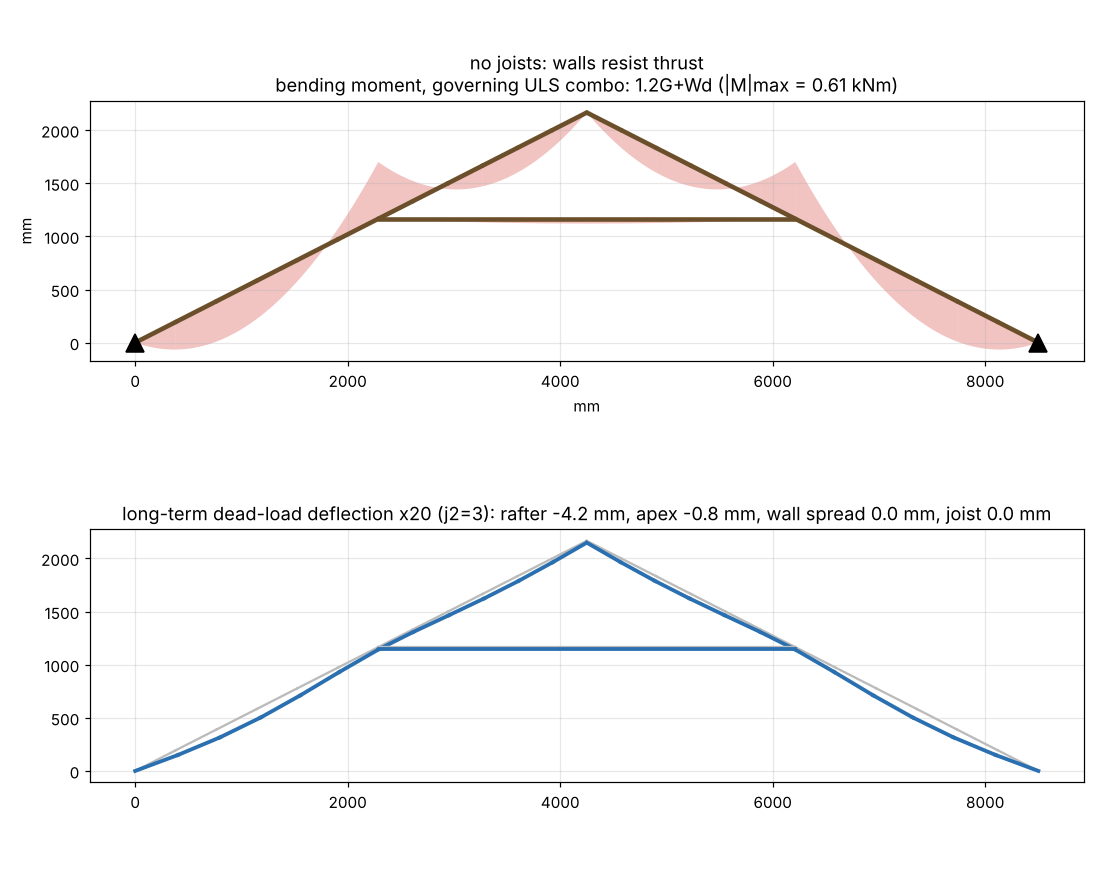
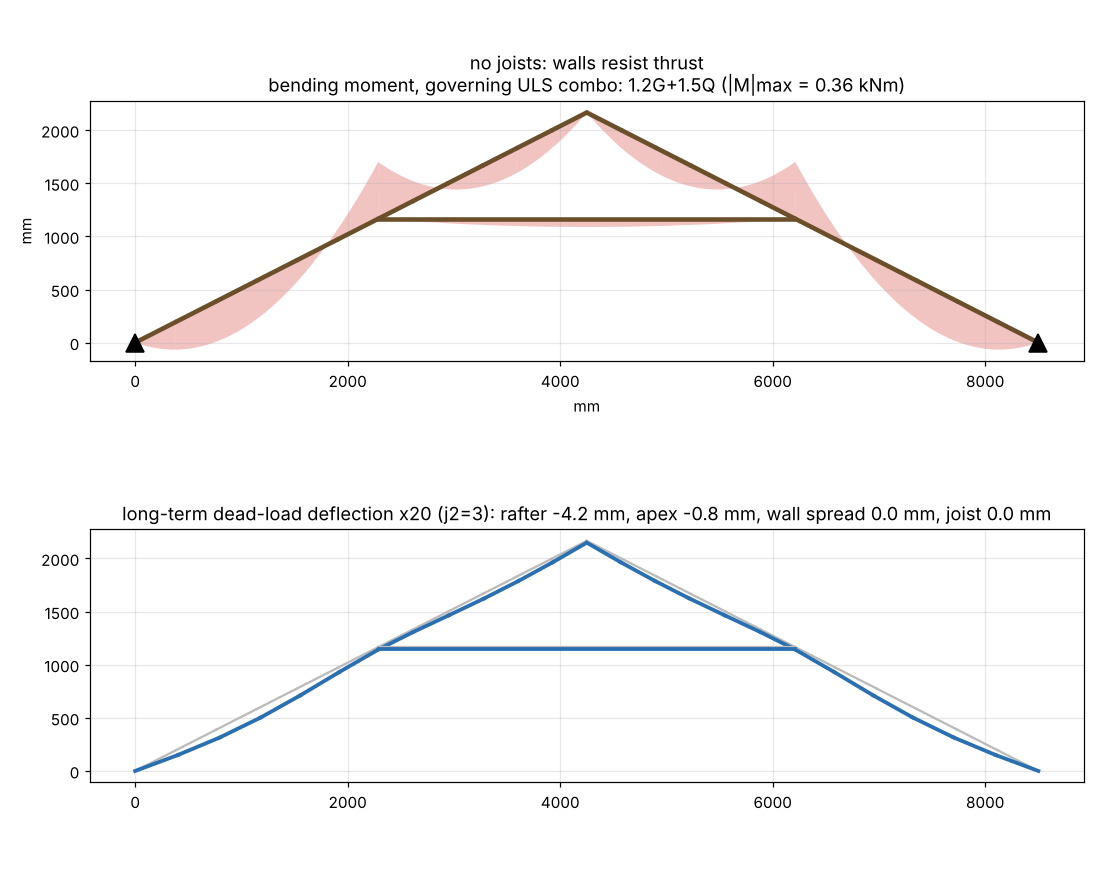
structural/roof_truss: N1 wind (suburban Adelaide) as default; report numbers updated
Claude-Session: https://claude.ai/code/session_0199U5YGymNnHk7YuwZmvPxb

Changed region(s): [[0.2473, 0.0614, 0.8345, 0.1227], [0.4327, 0.2455, 0.6491, 0.2761]]

diff --git a/structural/roof_truss/roof_truss.py b/structural/roof_truss/roof_truss.py
@@ -575,11 +575,12 @@ def parse(argv=None):
     l.add_argument("--qc-point", type=float, default=900, help="N, concentrated load on a ceiling joist (AS 1684 basis)")
     l.add_argument("--q-roof", type=float, default=0.25, help="roof live load on plan (R2, ≥14 m2)")
     l.add_argument("--q-point", type=float, default=1400, help="N, concentrated roof live load")
-    l.add_argument("--wind-up", type=float, default=-0.8, help="net ULS pressure onto roof, both slopes (N2 indicative)")
-    l.add_argument("--wind-down", type=float, default=0.6)
-    l.add_argument("--wind-asym", type=lambda s: tuple(float(v) for v in s.split(",")), default=(0.5, -0.8),
-                   help="windward,leeward net pressures")
-    l.add_argument("--ws-ratio", type=float, default=0.42, help="serviceability/ultimate wind pressure ratio")
+    l.add_argument("--wind-up", type=float, default=-0.58,
+                   help="net ULS pressure onto roof, both slopes (N1 suburban Adelaide; N2 = -0.8)")
+    l.add_argument("--wind-down", type=float, default=0.43, help="(N2 = 0.6)")
+    l.add_argument("--wind-asym", type=lambda s: tuple(float(v) for v in s.split(",")), default=(0.36, -0.58),
+                   help="windward,leeward net pressures (N2 = 0.5,-0.8)")
+    l.add_argument("--ws-ratio", type=float, default=0.58, help="serviceability/ultimate wind pressure ratio (N1)")
     o = ap.add_argument_group("output")
     o.add_argument("--all", action="store_true", help="run the support matrix + section sweep")
     o.add_argument("--plots", action="store_true")

diff --git a/structural/roof_truss/report/analysis.md b/structural/roof_truss/report/analysis.md
@@ -8,17 +8,17 @@ Governing utilisation per member (ULS, demand/capacity; >1.0 = FAIL):
 
 | group | combo | tag | util | M* kNm | Md kNm | N* kN | Ncx kN | Ncy kN | Nt kN | k12b | k12cy |
 |---|---|---|---|---|---|---|---|---|---|---|---|
-| collar | 1.2G+Wd | collar tie | 8.49 | 0.05 | 0.48 | -5.77 | 6.13 | 0.68 | 28.30 | 0.59 | 0.02 |
+| collar | 1.2G+1.5Q | collar tie | 7.97 | 0.05 | 0.39 | -3.40 | 3.84 | 0.43 | 26.60 | 0.51 | 0.01 |
 | tie | 1.2G+1.5Qc | ceiling joist | 3.79 | 1.39 | 0.37 | 1.33 | 3.38 | 26.09 | 27.45 | 0.47 | 0.80 |
-| rafter | 1.2G+Wa | rafter R lower | 3.63 | -2.20 | 0.62 | -1.01 | 14.32 | 12.95 | 28.30 | 0.76 | 0.39 |
+| rafter | 1.2G+Wa | rafter R lower | 2.68 | -1.61 | 0.62 | -1.09 | 14.32 | 12.95 | 28.30 | 0.76 | 0.39 |
 
 Support reactions per truss (kN; H = horizontal thrust the wall must resist):
 
 | support | |H| max | V max (down) | V min (uplift if <0) |
 |---|---|---|---|
 | joist prop 1 | 0.00 | 1.97 | 0.78 |
-| wall L | 3.38 | 4.22 | -3.21 |
-| wall R | 0.00 | 4.22 | -3.21 |
+| wall L | 2.44 | 3.35 | -2.09 |
+| wall R | 0.00 | 3.35 | -2.09 |
 
 Serviceability deflections (mm; rafter limit span/300 = 15.9 mm on the 4770 mm slope length, lower segment 8.6 mm, ceiling joist span 4250 mm → 14.2 mm):
 
@@ -26,9 +26,9 @@ Serviceability deflections (mm; rafter limit span/300 = 15.9 mm on the 4770 mm s
 |---|---|---|---|---|---|---|---|---|
 | G long-term | 3 | -4.56 | -3.99 | -1.80 | 0.97 | -0.36 | -6.89 | -31.31 |
 | 0.7Q short-term | 1 | -2.00 | -1.77 | -0.75 | 0.40 | -0.15 | 0.00 | 0.00 |
-| Ws uplift | 1 | 4.73 | 4.25 | 1.39 | -0.72 | 0.36 | 0.00 | 0.00 |
+| Ws uplift | 1 | 4.73 | 4.26 | 1.39 | -0.72 | 0.36 | 0.00 | 0.00 |
 
-Collar-tie lap connection: N* = 5.77 kN (compression, 1.2G+Wd). With 3.15 mm nails in J4 Oregon (Q_k ≈ 0.515 kN, φ = 0.80, k1 = 1.0, k17 = 0.8) that is ≈ 18 nails each end; or design an M12 bolt + washers.
+Collar-tie lap connection: N* = 4.44 kN (compression, 1.2G+Wd). With 3.15 mm nails in J4 Oregon (Q_k ≈ 0.515 kN, φ = 0.80, k1 = 1.0, k17 = 0.88) that is ≈ 13 nails each end; or design an M12 bolt + washers.
 
 ![as built: joists tie the feet, wall under joists mid-span, purlins as bracing](tie_p1_35x105.png)
 
@@ -47,10 +47,10 @@ Support reactions per truss (kN; H = horizontal thrust the wall must resist):
 | support | |H| max | V max (down) | V min (uplift if <0) |
 |---|---|---|---|
 | joist prop 1 | 0.00 | 1.97 | 0.78 |
-| strut L | 0.00 | 3.07 | -2.64 |
-| strut R | 0.00 | 2.99 | -2.64 |
-| wall L | 3.38 | 1.33 | -0.57 |
-| wall R | 0.00 | 1.23 | -0.57 |
+| strut L | 0.00 | 2.40 | -1.78 |
+| strut R | 0.00 | 2.33 | -1.78 |
+| wall L | 2.44 | 1.33 | -0.31 |
+| wall R | 0.00 | 1.02 | -0.31 |
 
 Serviceability deflections (mm; rafter limit span/300 = 15.9 mm on the 4770 mm slope length, lower segment 8.6 mm, ceiling joist span 4250 mm → 14.2 mm):
 
@@ -58,9 +58,9 @@ Serviceability deflections (mm; rafter limit span/300 = 15.9 mm on the 4770 mm s
 |---|---|---|---|---|---|---|---|---|
 | G long-term | 3 | -3.67 | -3.73 | -0.19 | 0.04 | 0.07 | -6.89 | -31.31 |
 | 0.7Q short-term | 1 | -1.64 | -1.66 | -0.09 | 0.02 | 0.03 | 0.00 | 0.00 |
-| Ws uplift | 1 | 4.01 | 4.03 | 0.09 | 0.03 | 0.01 | 0.00 | 0.00 |
+| Ws uplift | 1 | 4.02 | 4.04 | 0.09 | 0.03 | 0.01 | 0.00 | 0.00 |
 
-Collar-tie lap connection: N* = 0.99 kN (tension, 1.2G+Wa). With 3.15 mm nails in J4 Oregon (Q_k ≈ 0.515 kN, φ = 0.80, k1 = 1.0, k17 = 1.0) that is ≈ 3 nails each end; or design an M12 bolt + washers.
+Collar-tie lap connection: N* = 0.77 kN (tension, 1.2G+Wa). With 3.15 mm nails in J4 Oregon (Q_k ≈ 0.515 kN, φ = 0.80, k1 = 1.0, k17 = 1.0) that is ≈ 2 nails each end; or design an M12 bolt + washers.
 
 ![what-if: same + under-purlins strutted down to a wall/beam](tie_p1_strutted_35x105.png)
 
@@ -71,15 +71,15 @@ Governing utilisation per member (ULS, demand/capacity; >1.0 = FAIL):
 | group | combo | tag | util | M* kNm | Md kNm | N* kN | Ncx kN | Ncy kN | Nt kN | k12b | k12cy |
 |---|---|---|---|---|---|---|---|---|---|---|---|
 | tie | 1.2G+1.5Qc | ceiling joist | 25.10 | 4.64 | 0.19 | 1.33 | 0.85 | 26.09 | 27.45 | 0.24 | 0.80 |
-| collar | 1.2G+Wd | collar tie | 8.49 | 0.05 | 0.48 | -5.77 | 6.13 | 0.68 | 28.30 | 0.59 | 0.02 |
-| rafter | 1.2G+Wa | rafter R lower | 3.63 | -2.20 | 0.62 | -1.01 | 14.32 | 12.95 | 28.30 | 0.76 | 0.39 |
+| collar | 1.2G+1.5Q | collar tie | 7.97 | 0.05 | 0.39 | -3.40 | 3.84 | 0.43 | 26.60 | 0.51 | 0.01 |
+| rafter | 1.2G+Wa | rafter R lower | 2.68 | -1.61 | 0.62 | -1.09 | 14.32 | 12.95 | 28.30 | 0.76 | 0.39 |
 
 Support reactions per truss (kN; H = horizontal thrust the wall must resist):
 
 | support | |H| max | V max (down) | V min (uplift if <0) |
 |---|---|---|---|
-| wall L | 3.38 | 4.74 | -2.82 |
-| wall R | 0.00 | 4.74 | -2.82 |
+| wall L | 2.44 | 3.88 | -1.70 |
+| wall R | 0.00 | 3.88 | -1.70 |
 
 Serviceability deflections (mm; rafter limit span/300 = 15.9 mm on the 4770 mm slope length, lower segment 8.6 mm, ceiling joist span 8500 mm → 28.3 mm):
 
@@ -87,9 +87,9 @@ Serviceability deflections (mm; rafter limit span/300 = 15.9 mm on the 4770 mm s
 |---|---|---|---|---|---|---|---|---|
 | G long-term | 3 | -4.56 | -3.99 | -1.80 | 0.97 | -0.36 | -6.89 | -1252.40 |
 | 0.7Q short-term | 1 | -2.00 | -1.77 | -0.75 | 0.40 | -0.15 | 0.00 | 0.00 |
-| Ws uplift | 1 | 4.73 | 4.25 | 1.39 | -0.72 | 0.36 | 0.00 | 0.00 |
+| Ws uplift | 1 | 4.73 | 4.26 | 1.39 | -0.72 | 0.36 | 0.00 | 0.00 |
 
-Collar-tie lap connection: N* = 5.77 kN (compression, 1.2G+Wd). With 3.15 mm nails in J4 Oregon (Q_k ≈ 0.515 kN, φ = 0.80, k1 = 1.0, k17 = 0.8) that is ≈ 18 nails each end; or design an M12 bolt + washers.
+Collar-tie lap connection: N* = 4.44 kN (compression, 1.2G+Wd). With 3.15 mm nails in J4 Oregon (Q_k ≈ 0.515 kN, φ = 0.80, k1 = 1.0, k17 = 0.88) that is ≈ 13 nails each end; or design an M12 bolt + washers.
 
 ![what-if: no wall under the joists](tie_p0_35x105.png)
 
@@ -99,15 +99,15 @@ Governing utilisation per member (ULS, demand/capacity; >1.0 = FAIL):
 
 | group | combo | tag | util | M* kNm | Md kNm | N* kN | Ncx kN | Ncy kN | Nt kN | k12b | k12cy |
 |---|---|---|---|---|---|---|---|---|---|---|---|
-| collar | 1.2G+Wd | collar tie | 8.52 | 0.05 | 0.48 | -5.79 | 6.13 | 0.68 | 28.30 | 0.59 | 0.02 |
-| rafter | 1.2G+Wa | rafter R lower | 3.64 | -2.21 | 0.62 | -1.01 | 14.32 | 12.95 | 28.30 | 0.76 | 0.39 |
+| collar | 1.2G+1.5Q | collar tie | 8.01 | 0.05 | 0.39 | -3.41 | 3.84 | 0.43 | 26.60 | 0.51 | 0.01 |
+| rafter | 1.2G+Wa | rafter R lower | 2.69 | -1.61 | 0.62 | -1.09 | 14.32 | 12.95 | 28.30 | 0.76 | 0.39 |
 
 Support reactions per truss (kN; H = horizontal thrust the wall must resist):
 
 | support | |H| max | V max (down) | V min (uplift if <0) |
 |---|---|---|---|
-| wall L | 5.73 | 3.91 | -3.44 |
-| wall R | 5.73 | 3.91 | -3.44 |
+| wall L | 4.49 | 3.04 | -2.32 |
+| wall R | 4.49 | 3.04 | -2.32 |
 
 Serviceability deflections (mm; rafter limit span/300 = 15.9 mm on the 4770 mm slope length, lower segment 8.6 mm):
 
@@ -115,9 +115,9 @@ Serviceability deflections (mm; rafter limit span/300 = 15.9 mm on the 4770 mm s
 |---|---|---|---|---|---|---|---|---|
 | G long-term | 3 | -4.20 | -3.89 | -0.85 | 0.00 | -0.36 | -6.89 | 0.00 |
 | 0.7Q short-term | 1 | -1.86 | -1.73 | -0.36 | 0.00 | -0.15 | 0.00 | 0.00 |
-| Ws uplift | 1 | 4.46 | 4.17 | 0.68 | 0.00 | 0.36 | 0.00 | 0.00 |
+| Ws uplift | 1 | 4.47 | 4.18 | 0.68 | 0.00 | 0.36 | 0.00 | 0.00 |
 
-Collar-tie lap connection: N* = 5.79 kN (compression, 1.2G+Wd). With 3.15 mm nails in J4 Oregon (Q_k ≈ 0.515 kN, φ = 0.80, k1 = 1.0, k17 = 0.8) that is ≈ 18 nails each end; or design an M12 bolt + washers.
+Collar-tie lap connection: N* = 4.46 kN (compression, 1.2G+Wd). With 3.15 mm nails in J4 Oregon (Q_k ≈ 0.515 kN, φ = 0.80, k1 = 1.0, k17 = 0.88) that is ≈ 13 nails each end; or design an M12 bolt + washers.
 
 ![no joists: walls resist thrust](pinned_p0_35x105.png)
 
@@ -127,15 +127,15 @@ Governing utilisation per member (ULS, demand/capacity; >1.0 = FAIL):
 
 | group | combo | tag | util | M* kNm | Md kNm | N* kN | Ncx kN | Ncy kN | Nt kN | k12b | k12cy |
 |---|---|---|---|---|---|---|---|---|---|---|---|
-| rafter | 0.9G+Wu | rafter R lower | 8.27 | -5.09 | 0.62 | 1.71 | 14.32 | 12.95 | 28.30 | 0.76 | 0.39 |
-| collar | 0.9G+Wu | collar tie | 7.44 | 0.03 | 0.48 | -5.06 | 6.13 | 0.68 | 28.30 | 0.59 | 0.02 |
+| rafter | 1.2G+1.5Q | rafter R upper | 6.81 | 4.64 | 0.76 | -5.80 | 12.20 | 8.12 | 26.60 | 1.00 | 0.26 |
+| collar | 0.9G+Wu | collar tie | 4.85 | 0.03 | 0.48 | -3.30 | 6.13 | 0.68 | 28.30 | 0.59 | 0.02 |
 
 Support reactions per truss (kN; H = horizontal thrust the wall must resist):
 
 | support | |H| max | V max (down) | V min (uplift if <0) |
 |---|---|---|---|
-| wall L | 3.38 | 3.91 | -3.44 |
-| wall R | 0.00 | 3.91 | -3.44 |
+| wall L | 2.44 | 3.04 | -2.32 |
+| wall R | 0.00 | 3.04 | -2.32 |
 
 Serviceability deflections (mm; rafter limit span/300 = 15.9 mm on the 4770 mm slope length, lower segment 8.6 mm):
 
@@ -143,9 +143,9 @@ Serviceability deflections (mm; rafter limit span/300 = 15.9 mm on the 4770 mm s
 |---|---|---|---|---|---|---|---|---|
 | G long-term | 3 | -274.37 | -63.71 | -532.07 | 541.35 | 0.61 | -6.89 | 0.00 |
 | 0.7Q short-term | 1 | -113.96 | -26.58 | -221.02 | 224.87 | 0.26 | 0.00 | 0.00 |
-| Ws uplift | 1 | 203.71 | 48.56 | 394.88 | -401.71 | -0.36 | 0.00 | 0.00 |
+| Ws uplift | 1 | 203.95 | 48.62 | 395.35 | -402.18 | -0.36 | 0.00 | 0.00 |
 
-Collar-tie lap connection: N* = 6.62 kN (tension, 1.2G+Wd). With 3.15 mm nails in J4 Oregon (Q_k ≈ 0.515 kN, φ = 0.80, k1 = 1.0, k17 = 0.8) that is ≈ 21 nails each end; or design an M12 bolt + washers.
+Collar-tie lap connection: N* = 5.87 kN (tension, 1.2G+1.5Q). With 3.15 mm nails in J4 Oregon (Q_k ≈ 0.515 kN, φ = 0.80, k1 = 0.94, k17 = 0.8) that is ≈ 19 nails each end; or design an M12 bolt + washers.
 
 ![no joists: one wall free to spread](roller_p0_35x105.png)
 
@@ -153,21 +153,21 @@ Collar-tie lap connection: N* = 6.62 kN (tension, 1.2G+Wd). With 3.15 mm nails i
 
 | section | rafter util | rafter combo | collar util | joist util | rafter δG mm | joist δG mm | H wall kN |
 |---|---|---|---|---|---|---|---|
-| 35x105 | 3.63 | 1.2G+Wa | 8.49 | 3.79 | 4.56 | 31.31 | 3.38 |
-| 35x140 | 2.41 | 1.2G+Wa | 6.40 | 2.86 | 2.30 | 13.74 | 3.38 |
-| 45x140 | 1.45 | 1.2G+Wa | 3.06 | 1.39 | 1.89 | 11.16 | 3.38 |
-| 35x190 | 1.67 | 1.2G+Wa | 4.74 | 2.13 | 1.22 | 5.80 | 3.38 |
-| 45x190 | 0.90 | 1.2G+Wa | 2.27 | 1.02 | 1.02 | 4.77 | 3.38 |
-| 45x240 | 0.65 | 1.2G+Wa | 1.81 | 0.82 | 0.69 | 2.52 | 3.38 | 
+| 35x105 | 2.68 | 1.2G+Wa | 7.97 | 3.79 | 4.56 | 31.31 | 2.44 |
+| 35x140 | 1.78 | 1.2G+Wa | 6.07 | 2.86 | 2.30 | 13.74 | 2.44 |
+| 45x140 | 1.07 | 1.2G+Wa | 2.92 | 1.39 | 1.89 | 11.16 | 2.44 |
+| 35x190 | 1.24 | 1.2G+Wa | 4.54 | 2.13 | 1.22 | 5.80 | 2.44 |
+| 45x190 | 0.67 | 1.2G+Wa | 2.20 | 1.02 | 1.02 | 4.77 | 2.44 |
+| 45x240 | 0.48 | 1.2G+Wa | 1.77 | 0.82 | 0.69 | 2.52 | 2.44 | 
 
 ### Section sweep — joists propped mid-span + purlins strutted
 
 | section | rafter util | rafter combo | collar util | joist util | rafter δG mm | joist δG mm | H wall kN |
 |---|---|---|---|---|---|---|---|
-| 35x105 | 1.35 | 1.2G+1.5Qp | 0.23 | 3.74 | 3.67 | 31.31 | 3.38 |
-| 35x140 | 0.79 | 1.2G+1.5Qp | 0.23 | 2.83 | 1.60 | 13.74 | 3.38 |
-| 45x140 | 0.59 | 1.2G+1.5Qp | 0.15 | 1.36 | 1.31 | 11.16 | 3.38 |
-| 35x190 | 0.56 | 1.2G+1.5Qp | 0.23 | 2.10 | 0.66 | 5.80 | 3.38 |
-| 45x190 | 0.32 | 1.2G+1.5Qp | 0.14 | 1.00 | 0.55 | 4.77 | 3.38 |
-| 45x240 | 0.22 | 1.2G+1.5Qp | 0.14 | 0.80 | 0.28 | 2.52 | 3.38 | 
+| 35x105 | 1.35 | 1.2G+1.5Qp | 0.23 | 3.74 | 3.67 | 31.31 | 2.44 |
+| 35x140 | 0.79 | 1.2G+1.5Qp | 0.23 | 2.83 | 1.60 | 13.74 | 2.44 |
+| 45x140 | 0.59 | 1.2G+1.5Qp | 0.15 | 1.36 | 1.31 | 11.16 | 2.44 |
+| 35x190 | 0.56 | 1.2G+1.5Qp | 0.23 | 2.10 | 0.66 | 5.80 | 2.44 |
+| 45x190 | 0.32 | 1.2G+1.5Qp | 0.14 | 1.00 | 0.55 | 4.77 | 2.44 |
+| 45x240 | 0.22 | 1.2G+1.5Qp | 0.14 | 0.80 | 0.28 | 2.52 | 2.44 | 
 

diff --git a/structural/roof_truss/REPORT.md b/structural/roof_truss/REPORT.md
@@ -16,9 +16,9 @@ members fail, each on its own:
 
 | Member | Governing case | Times over capacity | Why |
 |---|---|---|---|
-| **Collar tie** | dead + wind down | **8.5×** | it is pushed into *compression* (5.8 kN) as the rafters bow inward, and 3.9 m of unbraced 35 mm timber buckles sideways |
+| **Collar tie** | dead + roof live load (no wind needed) | **8.0×** | it is pushed into *compression* (3.4 kN) as the rafters bow inward, and 3.9 m of unbraced 35 mm timber buckles sideways |
 | **Ceiling joist** (4.25 m spans over the wall) | dead + 0.9 kN ceiling point load | **3.8×**, sags 31 mm (limit 14) | 1.39 kNm demand vs 0.37 kNm capacity; top edge unrestrained over 4.25 m |
-| **Rafter** | dead + asymmetric wind | **3.6×** | pressure on one slope and suction on the other bend the whole frame; the collar carries only horizontal force and can't help |
+| **Rafter** | dead + asymmetric wind (N1) | **2.7×** | pressure on one slope and suction on the other bend the whole frame; the collar carries only horizontal force and can't help. Without any wind, the 1.4 kN maintenance point load alone gives **2.2×** |
 
 The wall under the joists is essential (without it the joists are 25× over and
 sag over a metre) and the joists tying the feet are essential (without them the
@@ -32,28 +32,28 @@ Deflections pass wherever strength passes (rafter 4.6 mm long-term against a
 **Collar tie.** With the feet tied, gravity makes both rafters bow inward and the
 collar is squeezed between them. It only becomes a tension tie when the walls
 spread, which the joists prevent. Unbraced over 3.9 m in its weak direction
-k12 ≈ 0.02. Two intermediate lateral restraints (ceiling battens or a runner at
-third points) bring it to 1.00; the under-purlins restrain the collar *ends*
-only. Under asymmetric wind it sees 6.6 kN tension — the lap needs ~20 nails
-each end or bolts.
+k12 ≈ 0.01. Two intermediate lateral restraints (ceiling battens or a runner at
+third points) bring it to about 1.0; the under-purlins restrain the collar *ends*
+only. The lap carries 3.4 kN — ~12 nails each end or a bolt.
 
-**Ceiling joists.** The thrust (3.4 kN per truss) goes into the joists as
-tension, which they carry easily (12 % of capacity); the rafter-foot connection
-needs to be nailed or bolted as a 3.4 kN tension splice. The bending from the
+**Ceiling joists.** The thrust (2.4 kN per truss) goes into the joists as
+tension, which they carry easily (9 % of capacity); the rafter-foot connection
+needs to be nailed or bolted as a 2.4 kN tension splice. The bending from the
 ceiling over two 4.25 m spans is the problem: 35×105 ceiling joists at 1200 c/c
 want supports at roughly 1.5 m, or a deeper section (45×190 F7 is 1.0).
 
 **Rafters.** With the feet tied, the two rafters form a three-pin arch.
 Symmetric loads are carried by arch action and the rafter moments are small
 (~0.1 kNm dead load). Asymmetric wind can only be resisted by bending the
-rafters: 2.2 kNm against a 0.62 kNm capacity, checked by hand statics. A
-45×190 F7 rafter (0.90) survives this case; 35×140 does not (2.4×).
+rafters: 1.6 kNm against a 0.62 kNm capacity at N1 (2.2 kNm at N2, checked by
+hand statics). Even with no wind the 1.4 kN concentrated roof live load gives
+1.4 kNm on the 2.57 m lower segment. A 45×190 F7 rafter (0.67) survives;
+45×140 is marginal (1.07); 35×140 does not (1.8×).
 
 ## What would make it work
 
-**A. Keep the geometry, resize members:** rafters ≥ 45×190 F7, collar
-restrained at third points, joists 45×190 F7 (1.0) or 45×240 (0.8). A lot of
-timber.
+**A. Keep the geometry, resize members:** rafters 45×190 F7, collar restrained
+at third points, joists carried by the hanging beams. A lot of timber.
 
 **B. Strut the under-purlins down to a load-bearing wall or strutting beam**
 (what AS 1684 assumes an under-purlin does). That makes the rafters continuous
@@ -62,25 +62,25 @@ and drops the collar to 1 kN (0.23, 3 nails each end). Then:
 - rafters at 1200 c/c need **35×140 F7** (0.79, governed by the 1.4 kN
   concentrated roof live load on the 2.57 m lower segment); 35×105 is 1.35.
   Or keep 35×105 with a second purlin line so no rafter span exceeds ~1.5 m.
-- struts at every truss (3.0 kN per strut, 2.6 kN uplift — tie them down); a
+- struts at every truss (3.0 kN per strut, ~2 kN uplift — tie them down); a
   35×105 purlin can't carry a strut reaction across 2.4 m.
 - joists still need a deeper section or closer supports as above.
 
-Either way the thrust goes into the joists (3.4 kN per truss) — keep the foot
+Either way the thrust goes into the joists (2.4 kN per truss) — keep the foot
 connection.
 
 ## Results matrix (35×105 F7, times over capacity; > 1.0 fails)
 
 | Configuration | Rafter | Collar | Joist | Joist sag (long-term) |
 |---|---|---|---|---|
-| **As built**: joists tie feet, wall under joists, purlins as bracing | **3.6** | **8.5** | **3.8** | 31 mm (limit 14) |
+| **As built**: joists tie feet, wall under joists, purlins as bracing | **2.7** | **8.0** | **3.8** | 31 mm (limit 14) |
 | Same, under-purlins strutted | **1.35** | 0.23 | **3.7** | 31 mm |
-| No wall under the joists | **3.6** | **8.5** | **25** | 1252 mm |
-| No joists, walls resist 5.7 kN thrust | **3.6** | **8.5** | – | – |
-| No joists, walls can't resist thrust | **8.3** | **7.4** | – | spreads 540 mm |
+| No wall under the joists | **2.7** | **8.0** | **25** | 1252 mm |
+| No joists, walls resist 4 kN thrust | **2.7** | **8.0** | – | – |
+| No joists, walls can't resist thrust | **6.8** | **4.9** | – | spreads ~400 mm |
 
-Section sweep, as built (rafter / collar / joist):
-35×105 3.6 / 8.5 / 3.8 · 45×140 1.5 / 3.1 / 1.4 · 45×190 **0.90** / 2.3 / **1.0** · 45×240 0.65 / 1.8 / 0.8.
+Section sweep, as built (rafter / collar / joist, joists on the mid wall only):
+35×105 2.7 / 8.0 / 3.8 · 45×140 1.07 / 2.9 / 1.4 · 45×190 **0.67** / 2.2 / **1.0** · 45×240 0.48 / 1.8 / 0.8.
 
 Section sweep, purlins strutted (rafter): 35×105 **1.35** · 35×140 0.79 · 45×140 0.59 · 35×190 0.56.
 
@@ -105,15 +105,18 @@ They do nothing for the rafters or the collar, which still fail as above —
 **unless the beams also act as strutting beams**: struts from the beams up to
 the under-purlins turn them into the supports that route B needs. That is the
 cheapest fix on the table — a 190–240 deep Oregon beam may well carry the
-3.0 kN strut reaction per truss (2.6 kN uplift) on top of the ceiling, but it
+3.0 kN strut reaction per truss (~2 kN uplift) on top of the ceiling, but it
 needs the beam's span and bearing to check, and the struts need tying down.
 
 ## Sensitivities worth knowing
 
-- **Wind class.** Defaults are indicative N2 pressures. N3 multiplies wind
-  results by ~1.56; N1 by ~0.72. The asymmetric case (+0.5 / −0.8 kPa) assumes
-  internal suction with windward pressure (a building with openings); a sealed
-  building is nearer +0.1 / −0.8, cutting the rafter moment ~15 %.
+- **Wind class.** Defaults are N1 (suburban Adelaide, region A, fully
+  shielded, terrain category 3). A partly shielded or exposed site is N2:
+  multiply wind results by ~1.39 (rafter 3.6×, collar still gravity-governed).
+  The asymmetric case (+0.36 / −0.58 kPa) assumes internal suction with
+  windward pressure (openings); a sealed building is nearer +0.07 / −0.58, and
+  then the rafter is governed by the point load instead (2.2×). Wind is not
+  what fails this roof.
 - **Grade.** F8 (select Oregon) raises capacities ~20 %; F5 lowers them ~22 %.
 - **φ.** 0.70 is the visually-graded F-grade, category-2 value; 0.85 (in-grade
   tested products such as MGP) scales utilisations by 0.82.

diff --git a/structural/roof_truss/README.md b/structural/roof_truss/README.md
@@ -63,14 +63,14 @@ work (station actions, envelopes, utilisation, report tables) is polars.
 | Concentrated live `--q-point` | 1.4 kN | mid lower-rafter segment (worst position) |
 | Ceiling lining `--ceiling` | 0.12 kPa on plan | plasterboard + battens, on the joists |
 | Ceiling concentrated `--qc-point` | 0.9 kN | mid first joist span (AS 1684 ceiling-joist basis) |
-| Wind uplift `--wind-up` | −0.8 kPa net, both slopes | indicative N2 (q_u 0.96 kPa, leeward C_pe −0.6, C_pi +0.2) |
-| Wind down `--wind-down` | +0.6 kPa net, both slopes | conservative |
-| Wind asymmetric `--wind-asym` | +0.5 / −0.8 kPa | windward pressure with internal suction, leeward uplift; **governs** |
-| Serviceability wind `--ws-ratio` | 0.42 × ultimate | (26/40)² |
+| Wind uplift `--wind-up` | −0.58 kPa net, both slopes | N1, suburban Adelaide (q_u 0.69 kPa, leeward C_pe −0.6, C_pi +0.2); N2 = −0.8 |
+| Wind down `--wind-down` | +0.43 kPa net, both slopes | conservative; N2 = 0.6 |
+| Wind asymmetric `--wind-asym` | +0.36 / −0.58 kPa | windward pressure with internal suction, leeward uplift; N2 = 0.5 / −0.8 |
+| Serviceability wind `--ws-ratio` | 0.58 × ultimate | (26/34)² |
 
 Combinations: 1.35G · 1.2G+1.5Q · 1.2G+1.5Q_point · 1.2G+1.5Q_ceiling · 1.2G+W_down · 0.9G+W_up ·
 1.2G+W_asym · 0.9G+W_asym. Serviceability: G long-term (×j₂ = 3, unseasoned),
-0.7Q, W_s. Site wind class N3 scales all wind pressures by (50/40)² ≈ 1.56.
+0.7Q, W_s. Wind class N2 scales all wind pressures by (40/34)² ≈ 1.39, N3 by 2.16.
 
 ## Timber checks (AS 1720.1)
 
